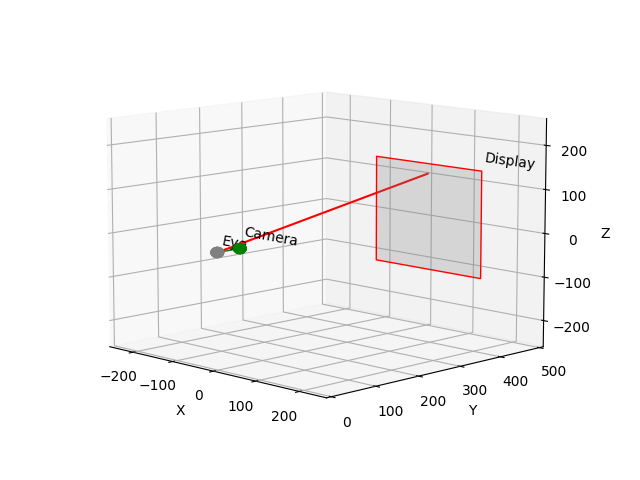
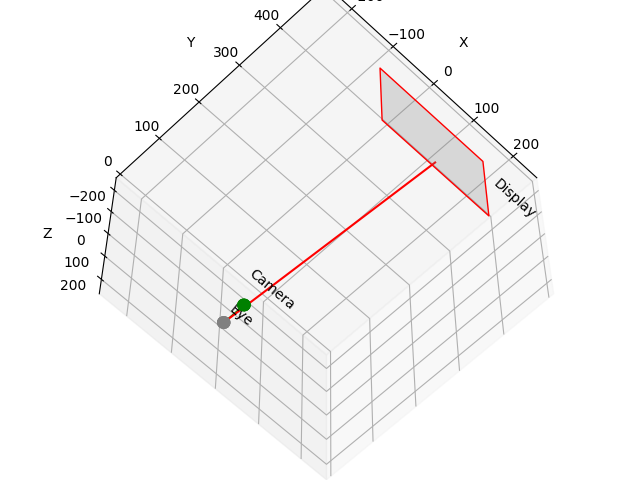
feat: added parameters for 3D debug

diff --git a/main.py b/main.py
@@ -85,6 +85,10 @@ class MainWindow(FramelessMainWindow):
         with open('config/default.json') as json_file:
             self.default_config = json.load(json_file)
 
+        # Graph config values
+        self.__mainWidget.elev.setText(str(self.config['elev']))
+        self.__mainWidget.azim.setText(str(self.config['azim']))
+
         # Camera config values
         self.__mainWidget.focalLength.setText(str(self.config['focal_length']))
 
@@ -130,6 +134,12 @@ class MainWindow(FramelessMainWindow):
         integerRegex = QRegularExpression("^0|[1-9]\\d*$")
         boolRegex = QRegularExpression("^True|False$")
         detectorModeRegex = QRegularExpression("^blocking|asynchronous$")
+        # from 0 to 360
+        graphParamRegex = QRegularExpression("^([0-9]|[1-9][0-9]|1[0-9][0-9]|2[0-9][0-9]|3[0-5][0-9]|360)$")
+
+        # Graph validation
+        self.__mainWidget.elev.setValidator(QRegularExpressionValidator(graphParamRegex))
+        self.__mainWidget.azim.setValidator(QRegularExpressionValidator(graphParamRegex))
 
         # Camera validation
         self.__mainWidget.focalLength.setValidator(QRegularExpressionValidator(floatingRegex))
@@ -170,6 +180,10 @@ class MainWindow(FramelessMainWindow):
         self.__mainWidget.modelUpdateIntervalUltLongTerm.setValidator(QRegularExpressionValidator(floatingRegex))
         self.__mainWidget.modelWarmupDuration.setValidator(QRegularExpressionValidator(floatingRegex))
         self.__mainWidget.calculateRmsResidual.setValidator(QRegularExpressionValidator(boolRegex))
+
+        # Graph event listeners
+        self.__mainWidget.elev.textChanged.connect(self.configChanged)
+        self.__mainWidget.azim.textChanged.connect(self.configChanged)
 
         # Camera event listeners
         self.__mainWidget.focalLength.textChanged.connect(self.configChanged)
@@ -217,6 +231,16 @@ class MainWindow(FramelessMainWindow):
         self.__mainWidget.resetParameters.clicked.connect(self.resetParameters)
         self.__mainWidget.uploadSaved.clicked.connect(self.uploadSavedParameters)
 
+        # Radio buttons
+        self.radioButtons = QButtonGroup()
+        self.radioButtons.addButton(self.__mainWidget.rawRadio)
+        self.radioButtons.addButton(self.__mainWidget.ellipseRadio)
+        self.radioButtons.addButton(self.__mainWidget.debugRadio)
+        self.radioButtons.addButton(self.__mainWidget.rayRadio)
+        self.__mainWidget.rayRadio.setEnabled(False)
+        self.__mainWidget.ellipseRadio.setChecked(True)
+        self.radioButtons.buttonClicked.connect(self.radioClicked)
+
         # Setup scripts
         self.detector_2d.update_properties(self.detector_2d_config)
         self.previewDetector2d.update_properties(self.detector_2d_config)
@@ -224,10 +248,13 @@ class MainWindow(FramelessMainWindow):
         self.detector_3d = Detector3D(camera=self.camera)
         self.detector_3d.update_properties(self.detector_3d_config)
 
+        # Title bar design
         for button in titleBar.findChildren(QPushButton):
             button.setStyleSheet("QPushButton {background-color: #FFE81F; border-radius: 7px; margin-right: 15px; width: 25px; height: 25px} QPushButton:hover {background-color: #ccba18; border-radius: 7px; margin-right: 15px; width: 25px; height: 25px} QPushButton:pressed {background-color: #ccba18; border-radius: 7px; margin-right: 15px; width: 25px; height: 25px}")
         titleBar.findChildren(QLabel)[1].setStyleSheet("QLabel {font-size: 15px; color: #F7FAFC; font-weight: bold; margin-left: 10px}")
         titleBar.findChildren(QLabel)[0].setStyleSheet("QLabel {margin-left: 10px}")
+
+        # Main window events
         self.__mainWidget.listImages.itemClicked.connect(self.imageClicked)
         self.__mainWidget.startButton.setEnabled(False)
         self.__mainWidget.startButton.clicked.connect(self.startDetection)
@@ -238,13 +265,6 @@ class MainWindow(FramelessMainWindow):
         self.__mainWidget.rawImage.clicked.connect(self.showRawImage)
         self.__mainWidget.imagePath.setText("Choose image")
         self.__mainWidget.imagePath.setText(self.__mainWidget.imagePath.fontMetrics().elidedText(self.__mainWidget.imagePath.text(), Qt.ElideRight, self.__mainWidget.imagePath.width()))
-        self.radioButtons = QButtonGroup()
-        self.radioButtons.addButton(self.__mainWidget.rawRadio)
-        self.radioButtons.addButton(self.__mainWidget.ellipseRadio)
-        self.radioButtons.addButton(self.__mainWidget.debugRadio)
-        self.radioButtons.addButton(self.__mainWidget.rayRadio)
-        self.__mainWidget.ellipseRadio.setChecked(True)
-        self.radioButtons.buttonClicked.connect(self.radioClicked)
 
     def showHeatmap(self):
         visualizationImage = QFileDialog.getOpenFileName(self, 'Open file', 'c:\\', "Image files (*.jpg *.png *.jpeg)")
@@ -285,6 +305,8 @@ class MainWindow(FramelessMainWindow):
         final_perimeter_max = float(self.__mainWidget.finalPerimeterMax.text()) if self.__mainWidget.finalPerimeterMax.text() != "" else None
 
         if self.__mainWidget.focalLength.text() != ""  \
+            and self.__mainWidget.elev.text() != "" \
+            and self.__mainWidget.azim.text() != "" \
             and self.__mainWidget.thresholdSwirski.text() != "" \
             and self.__mainWidget.thresholdKalman.text() != "" \
             and self.__mainWidget.thresholdShortTerm.text() != "" \
@@ -330,6 +352,10 @@ class MainWindow(FramelessMainWindow):
             self.__mainWidget.saveParameters.setEnabled(False)
     
     def setParameters(self):
+        # Graph parameters
+        self.config['elev'] = int(self.__mainWidget.elev.text())
+        self.config['azim'] = int(self.__mainWidget.azim.text())
+
         # Camera parameters
         self.config['focal_length'] = float(self.__mainWidget.focalLength.text())
 
@@ -383,7 +409,14 @@ class MainWindow(FramelessMainWindow):
         self.__mainWidget.saveParameters.setEnabled(True)
 
     def resetParameters(self):
+        # Camera parameters
         self.__mainWidget.focalLength.setText(str(self.default_config['focal_length']))
+
+        # Graph parameters
+        self.__mainWidget.elev.setText(str(self.default_config['elev']))
+        self.__mainWidget.azim.setText(str(self.default_config['azim']))
+
+        # 2D detector parameters
         self.__mainWidget.intensityRange.setText(str(self.default_config["detector_2d"]['intensity_range']))
         self.__mainWidget.pupilSizeMax.setText(str(self.default_config["detector_2d"]['pupil_size_max']))
         self.__mainWidget.pupilSizeMin.setText(str(self.default_config["detector_2d"]['pupil_size_min']))
@@ -405,6 +438,8 @@ class MainWindow(FramelessMainWindow):
         self.__mainWidget.finalPerimeterMax.setText(str(self.default_config["detector_2d"]['final_perimeter_ratio_range_max']))
         self.__mainWidget.ellipseSupportMinDist.setText(str(self.default_config["detector_2d"]['ellipse_true_support_min_dist']))
         self.__mainWidget.supportPixelRatio.setText(str(self.default_config["detector_2d"]['support_pixel_ratio_exponent']))
+
+        # 3D detector parameters
         self.__mainWidget.thresholdSwirski.setText(str(self.default_config["detector_3d"]['threshold_swirski']))
         self.__mainWidget.thresholdKalman.setText(str(self.default_config["detector_3d"]['threshold_kalman']))
         self.__mainWidget.thresholdShortTerm.setText(str(self.default_config["detector_3d"]['threshold_short_term']))
@@ -429,7 +464,15 @@ class MainWindow(FramelessMainWindow):
     def uploadSavedParameters(self):
         with open('config/config.json') as json_file:
             self.original_config = json.load(json_file)
+
+        # Camera parameters
         self.__mainWidget.focalLength.setText(str(self.original_config['focal_length']))
+
+        # Graph parameters
+        self.__mainWidget.elev.setText(str(self.original_config['elev']))
+        self.__mainWidget.azim.setText(str(self.original_config['azim']))
+
+        # 2D detector parameters
         self.__mainWidget.coarseDetection.setText(str(bool(self.original_config["detector_2d"]['coarse_detection'])))
         self.__mainWidget.coarseFilterMin.setText(str(self.original_config["detector_2d"]['coarse_filter_min']))
         self.__mainWidget.coarseFilterMax.setText(str(self.original_config["detector_2d"]['coarse_filter_max'])) 
@@ -452,6 +495,7 @@ class MainWindow(FramelessMainWindow):
         self.__mainWidget.ellipseSupportMinDist.setText(str(self.original_config["detector_2d"]['ellipse_true_support_min_dist']))
         self.__mainWidget.supportPixelRatio.setText(str(self.original_config["detector_2d"]['support_pixel_ratio_exponent']))
 
+        # 3D detector parameters
         self.__mainWidget.thresholdSwirski.setText(str(self.original_config["detector_3d"]['threshold_swirski']))
         self.__mainWidget.thresholdKalman.setText(str(self.original_config["detector_3d"]['threshold_kalman']))
         self.__mainWidget.thresholdShortTerm.setText(str(self.original_config["detector_3d"]['threshold_short_term']))
@@ -492,6 +536,7 @@ class MainWindow(FramelessMainWindow):
             file_list = glob.glob(os.path.join(self.folderPath, "*"))
             self.imageAmount = len(file_list)
             self.__mainWidget.startButton.setEnabled(True)
+            self.__mainWidget.rayRadio.setEnabled(False)
             self.__mainWidget.imageLabel.clear()
             self.__mainWidget.listImages.clear()
             self.__mainWidget.imagePath.setText(self.imageName)
@@ -508,12 +553,14 @@ class MainWindow(FramelessMainWindow):
             self.rawDataFromDetection = {}
             self.__mainWidget.imagePath.setText("Choose image")
             self.__mainWidget.startButton.setEnabled(False)
+            self.__mainWidget.rayRadio.setEnabled(False)
             self.__mainWidget.listImages.clear()
             self.__mainWidget.imageLabel.clear()
 
     def startDetection(self):
         if self.imagePath:
             self.clickedItem = None
+            self.__mainWidget.rayRadio.setEnabled(False)
             if self.detectionRound == 0:
                 self.renderImage()
                 if self.fillImageList == 0:
@@ -523,6 +570,7 @@ class MainWindow(FramelessMainWindow):
             else:
                 self.rawDataFromDetection = {}
                 self.renderImage()
+            self.__mainWidget.rayRadio.setEnabled(True)
 
     def renderImage(self):
         fileName = self.imageName.split("_")
@@ -742,7 +790,9 @@ class MainWindow(FramelessMainWindow):
             ax.plot([x_start, x_end], [y_start, y_end], [z_start, z_end], color='red', linewidth=1)
 
 
-        ax.view_init(elev=10, azim=-60)
+        # TODO: pridať do configu elev a azim ..
+        # TODO: aj normala oka zobraziť
+        ax.view_init(elev=self.config['elev'], azim=self.config['azim'])
         fig.set_size_inches(6.4, 4.8)
         fig.tight_layout()
         fig.canvas.draw()
@@ -908,6 +958,7 @@ class VisualizationWindow(FramelessMainWindow):
         return (1 - t) * a + t * b
 
     def convert_uv_to_px(self, uv_data, width, height):
+        # TODO: tu pozrieť či je 0 - 1
         return (int(uv_data[0] * width), int(uv_data[1] * height))
 
     def convert_to_uv(self, vec, size_x=250, size_y=250, flip_y=True):
@@ -916,6 +967,7 @@ class VisualizationWindow(FramelessMainWindow):
         if flip_y:
             y = 1 - y
         
+        # TODO: vratiť ich aj ked su mimo
         if x < 0 or x > 1 or y < 0 or y > 1:
             return None
         return (x, y)
@@ -1199,15 +1251,12 @@ if __name__ == "__main__":
     sys.exit(app.exec_())
 
 # TODO: kalibracia a validacia
-# TODO: transforms lib knižnica
-# TODO: prevod medzi lokal a global coord systemom
 # TODO: neskor pridať dlib na detekciu zrenice .. funguje na zaklade machine learningu
 # TODO: pre kameru pridať velkosť obrazku do configu
 # TODO: dalšiu iteraciu navrhu .. že čo sa zmenilo
 # TODO: prerobiť veci v scanpath aby sa volalo iba to čo je potrebné
-# TODO: obrazky v overleaf dať vedla seba ..
+# TODO: obrazky v overleaf dať vedla seba ale iba tie ktore spolu suvisia
 # TODO: kapitola nema byť prazdna .. doplniť nejaky uvod ..
 # TODO: heatmapa a scanpath .. dať do vlastnej kapitoly a vysvetliť to .. dať to do analyzy
 # TODO: z druhej iteracie navrhu dať .. budeme potrebovať marker ..
 # TODO: možno opisať ako ziskať ppi monitora
-# TODO: save raycast as image and display it

diff --git a/scripts/3d.py b/scripts/3d.py
@@ -72,7 +72,8 @@ def visualizeRaycast(raycastEnd, cameraPos, cameraTarget, screenWidth = 250, scr
     ax.view_init(elev=10, azim=-45)
     fig.tight_layout(pad=0, w_pad=0, h_pad=0)
     plt.subplots_adjust(left=0, bottom=0, right=1, top=1, wspace=0, hspace=0)
-    plt.margins(0,0,0)
+    plt.margins(0, 0, 0)
+
     fig.set_size_inches(6.4, 4.8)
     
     plt.savefig('.\images\\3d_plot.png', dpi=100)
